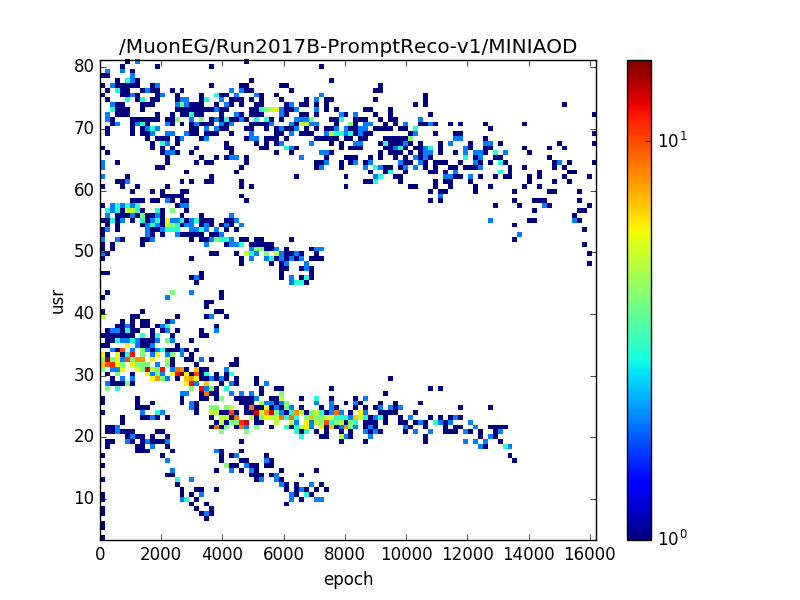
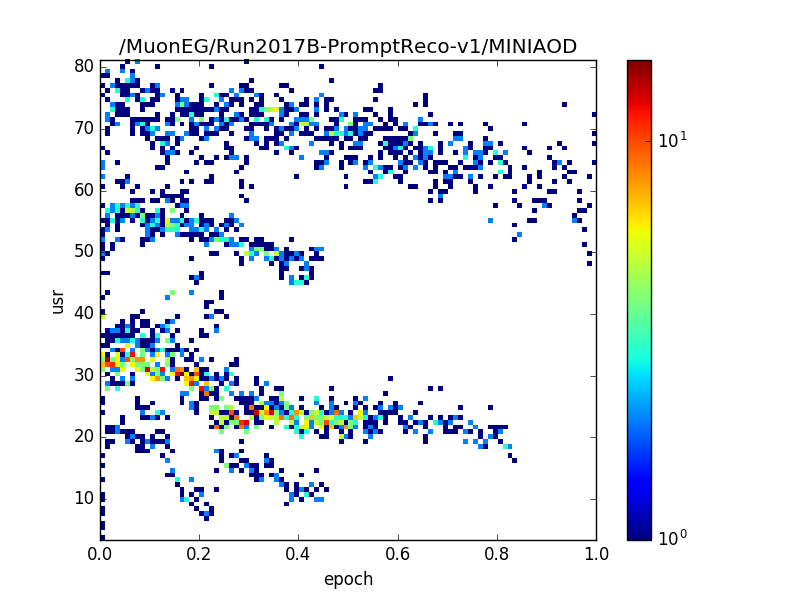
need to write webint in java and add user path to plot paths

Changed region(s): [[0.1875, 0.9, 0.7812, 0.93], [0.0938, 0.9, 0.1562, 0.93]]

diff --git a/webinterface/StatsParser.py b/webinterface/StatsParser.py
@@ -19,15 +19,14 @@ def get_underscored(dsname):
         elif wrd != '':
             final_title += (wrd + "_")
 
-def get_dsnames(summarypath):
-    with open(summarypath, 'r') as fhin:
-        summaryPile = json.load(fhin)
-
-    return summaryPile
-
-def updt_summary(summaryPile, dsname, retries, missing_evts, logObjPile):
+def updt_summary(summaryPile, dsname, bad_jobs, missing_evts, pltpaths, logObjPile):
     name = get_underscored(dsname)
-    summaryPile[name] = {"Retries":retries, "Missing Events":(missing_evts), "Hosts":[]}
+    summaryPile[name] = {
+        "Plots":pltpaths,
+        "Jobs not done":bad_jobs,
+        "Missing Events":(missing_evts), 
+        "Hosts":[]
+        }
     for log in logObjPile:
         try:
             host = logObjPile[log]["host"]
@@ -52,6 +51,8 @@ def parse_stats(jsonpath, logpath):
         sample = summary[dsname]
         cms4nevts = 0
         dbsnevts = counts[dsname]["dbs"]
+
+        bad_jobs = {}
         for iout in sample.keys():
             job = sample[iout]
 
@@ -67,6 +68,13 @@ def parse_stats(jsonpath, logpath):
             inputs = job["inputs"]
             innames, innevents = zip(*inputs)
             nevents = sum(innevents)
+
+            bad_jobs["Job {0}".format(iout)] = {
+                "retries":retries,
+                "inputs":len(inputs),
+                "events":nevents
+            }
+
             print "[{0}] Job {1} is not done. Retried {2} times.".format(dsname, iout, retries)
             print "   --> {0} inputs with a total of {1} events".format(len(inputs),nevents)
     #        if retries >= 1:
@@ -88,20 +96,26 @@ def parse_stats(jsonpath, logpath):
             for iout in tqdm(sample.keys()):
                 #Pass current log dictionary, original log file locations (job["condor jobs"]), desired log file type, and current log file location to plotter
                 logObjPile = plotter.get_json_files(logObjPile, sample[iout]["condor_jobs"], ".out", logpath)
-                #Summary pile stores information to be displayed with graph
-                summaryPile = updt_summary(summaryPile, dsname, retries, (dbsnevts-cms4nevts), logObjPile)
             try:
                 #Plot Functions:
                 '''
                     2D Graphs:
-                        Profile: plotter.plot_Profile(logObjPile, xkey, ykey, bins)
-                        2DHist: plotter.plot_2DHist(logObjPile, xkey, ykey, bins)
+                        norm_toggle = 1 -> scale x-values such that max x-value is 1
+                        norm_toggle = 0 -> plot x and y values as they are
+
+                        Profile: plotter.plot_Profile(logObjPile, xkey, ykey, bins, norm_toggle)
+                        2DHist: plotter.plot_2DHist(logObjPile, xkey, ykey, bins, norm_toggle)
                     
                     1D Graphs:
                         1DHist; plotter.plot_1DHist(logObjPile, xkey, bins)
                 '''
+                pltpaths = []
+                pltpaths.append(plotter.plot_2DHist(logObjPile, dsname, "epoch", "usr", 100, 1))
+                pltpaths.append(plotter.plot_2DHist(logObjPile, dsname, "epoch", "send", 100, 1))
+                pltpaths.append(plotter.plot_2DHist(logObjPile, dsname, "epoch", "recv", 100, 1))
 
-                plotter.plot_2DHist(logObjPile, dsname, "epoch", "usr", 100)
+                #Summary pile stores information to be displayed with graph
+                summaryPile = updt_summary(summaryPile, dsname, bad_jobs, (dbsnevts-cms4nevts), pltpaths, logObjPile)
             except ValueError as error:
                 print(error)
                 print("Skipped: " + dsname)
@@ -115,7 +129,7 @@ def parse_stats(jsonpath, logpath):
                 pass
 
     with open("static/summaryinfo.json", 'w') as fhout:
-        json.dump(summaryPile, fhout)
+        json.dump(summaryPile, fhout, sort_keys = True, indent = 4, separators=(',',': '))
 
     return
 

diff --git a/webinterface/Plotter.py b/webinterface/Plotter.py
@@ -88,10 +88,12 @@ def set_graph_info(title, xlabel, ylabel):
         if wrd != '':
             file_title += (wrd + '_')
     
-    plt.savefig('static/' + file_title + xlabel + '_vs_' + ylabel + '.png')
+    pltpath = ('static/' + file_title + xlabel + '_vs_' + ylabel + '.png')
+
+    plt.savefig(pltpath)
     plt.close()
     
-    return
+    return pltpath
 
 #Takes data as list, returns mean as float
 def get_mean(data):
@@ -140,44 +142,57 @@ def get_data_2D(logObjPile, xkey, ykey):
 
     return xLst, yLst
     
-def plot_1DHist(logObjPile, title, xkey, pltbins):
+def plot_1DHist(logObjPile, title, xkey, bins):
     x = get_data_1D(logObjPile, xkey)
     if title == None:
         title = "1D Histogram"
 
-    plt.hist(x, pltbins)
-    set_graph_info(title, xkey, "") 
+    plt.hist(x, bins)
 
-    return
+    return set_graph_info(title, xkey, "") 
 
-def plot_2DHist(logObjPile, title, xkey, ykey, pltbins):
+def plot_2DHist(logObjPile, title, xkey, ykey, bins, norm_toggle):
     #Get data
     x, y = get_data_2D(logObjPile, xkey, ykey)
     if title == None:
         title = "2DHist"
+    
+    if norm_toggle == 1:
+        max_x = float(max(x))
+        counter = 0
+        for num in x:
+            x[counter] = (num/max_x)
+            counter += 1
+
 
     #Import Colors
     from matplotlib.colors import LogNorm
 
     #Create Heatmap
-    plt.hist2d(x, y, bins = pltbins, norm = LogNorm())
+    plt.hist2d(x, y, bins = bins, norm = LogNorm())
 
     #Plot Heatmap
     plt.colorbar()
-    set_graph_info(title, xkey, ykey)
 
-    return
+    return set_graph_info(title, xkey, ykey)
 
-def plot_Profile(logObjPile, title, xkey, ykey, pltbins):
+def plot_Profile(logObjPile, title, xkey, ykey, bins, norm_toggle):
     #Get data
     x, y = get_data_2D(logObjPile, xkey, ykey)
     x = np.array(x)
     y = np.array(y)
     if title == None:
         title = "Profile"
+    
+    if norm_toggle == 1:
+        max_x = float(max(x))
+        counter = 0
+        for num in x:
+            x[counter] = (num/max_x)
+            counter += 1
 
     #Build graph
-    means_result = scipy.stats.binned_statistic(x, [y, y**2], bins = pltbins, statistic = "mean")
+    means_result = scipy.stats.binned_statistic(x, [y, y**2], bins = bins, statistic = "mean")
     means, means2 = means_result.statistic
     standard_deviation = np.sqrt(means2 - means**2)
     bin_edges = means_result.bin_edges
@@ -185,53 +200,11 @@ def plot_Profile(logObjPile, title, xkey, ykey, pltbins):
     
     #Plot graph
     plt.errorbar(x = bin_centers, y = means, yerr = standard_deviation, linestyle = "none", marker = ".")
-    set_graph_info(title, xkey, ("Average " + ykey))
 
-    return
-
-def plot_avgY2DHist(logObjPile, title, xkey, ykey, pltbins):
-    #Get data
-    x, y = get_data_2D(logObjPile, xkey, ykey)
-    if title == None:
-        title = "2D Histogram"
-
-    #Build x-bins
-    xbins = {}
-    for num in x:
-        xbins[num] = []
-
-    #Populate x-bins with y-values
-    counter = 0
-    for num in y:
-        xbins[x[counter]].append(num)
-        counter += 1
-
-    #get mean of y-values in xbins:
-    for xb in xbins:
-        xbins[xb] = get_mean(xbins[xb])
-
-    #Build final data sets
-    x = []
-    y = []
-    for xb in xbins:
-        y.append(xbins[xb])
-        x.append(xb)
-
-    #Import Colors
-    from matplotlib.colors import LogNorm    
-
-    #Create Heatmap
-    plt.hist2d(x, y, bins = 100, norm = LogNorm())
-
-    #Plot Heatmap
-    plt.colorbar()
-    set_graph_info(title, xkey, ("Average " + ykey))
-
-    return
+    return set_graph_info(title, xkey, ("Average " + ykey))
 
 #Debugging operations
 if __name__ == "__main__":
     fPile = get_log_files("/home/jguiang/ProjectMetis/log_files/tasks", ".out")
     logObjPile = tqdm_parse_log_files(fPile)
 
-    print(logObjPile[0]["Host"])
